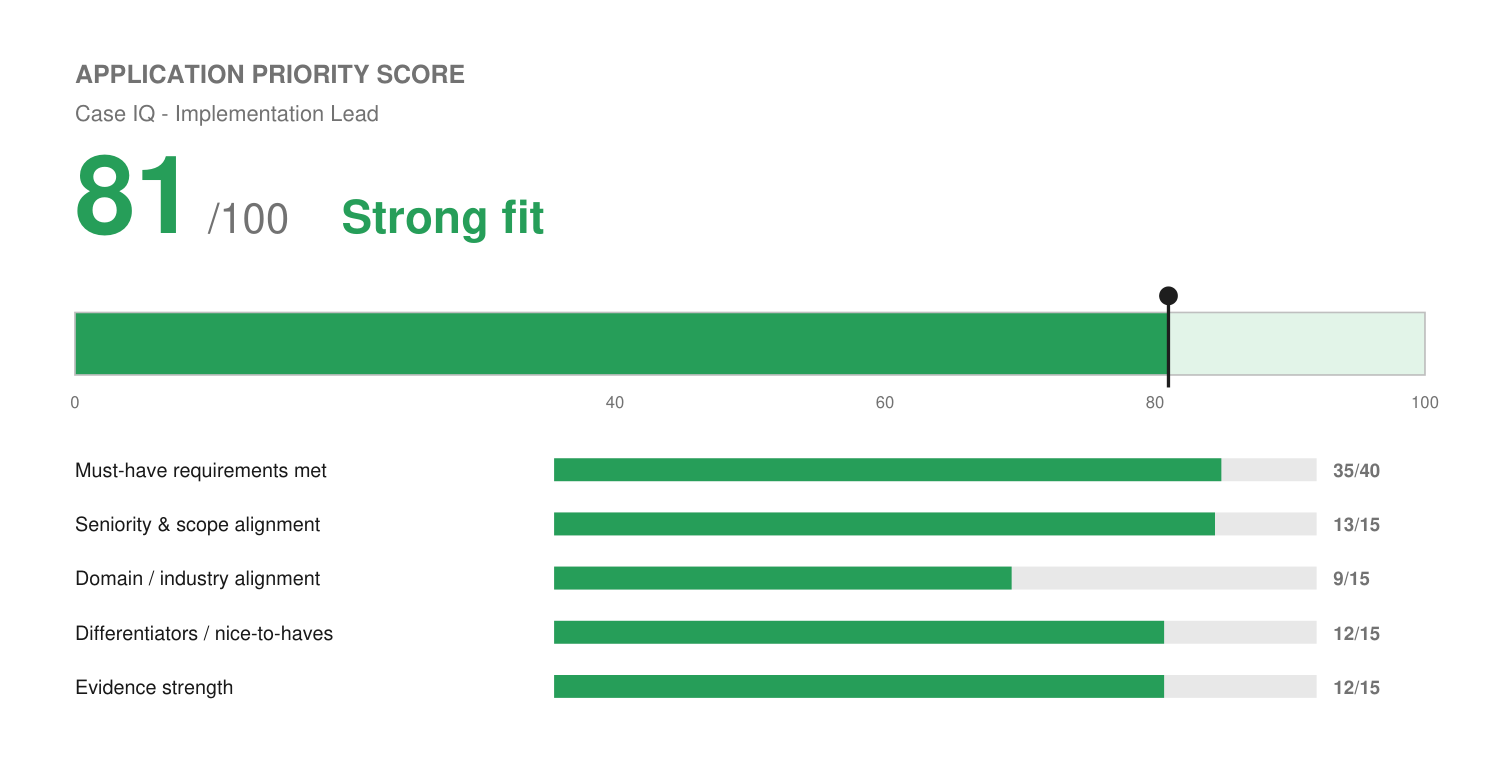
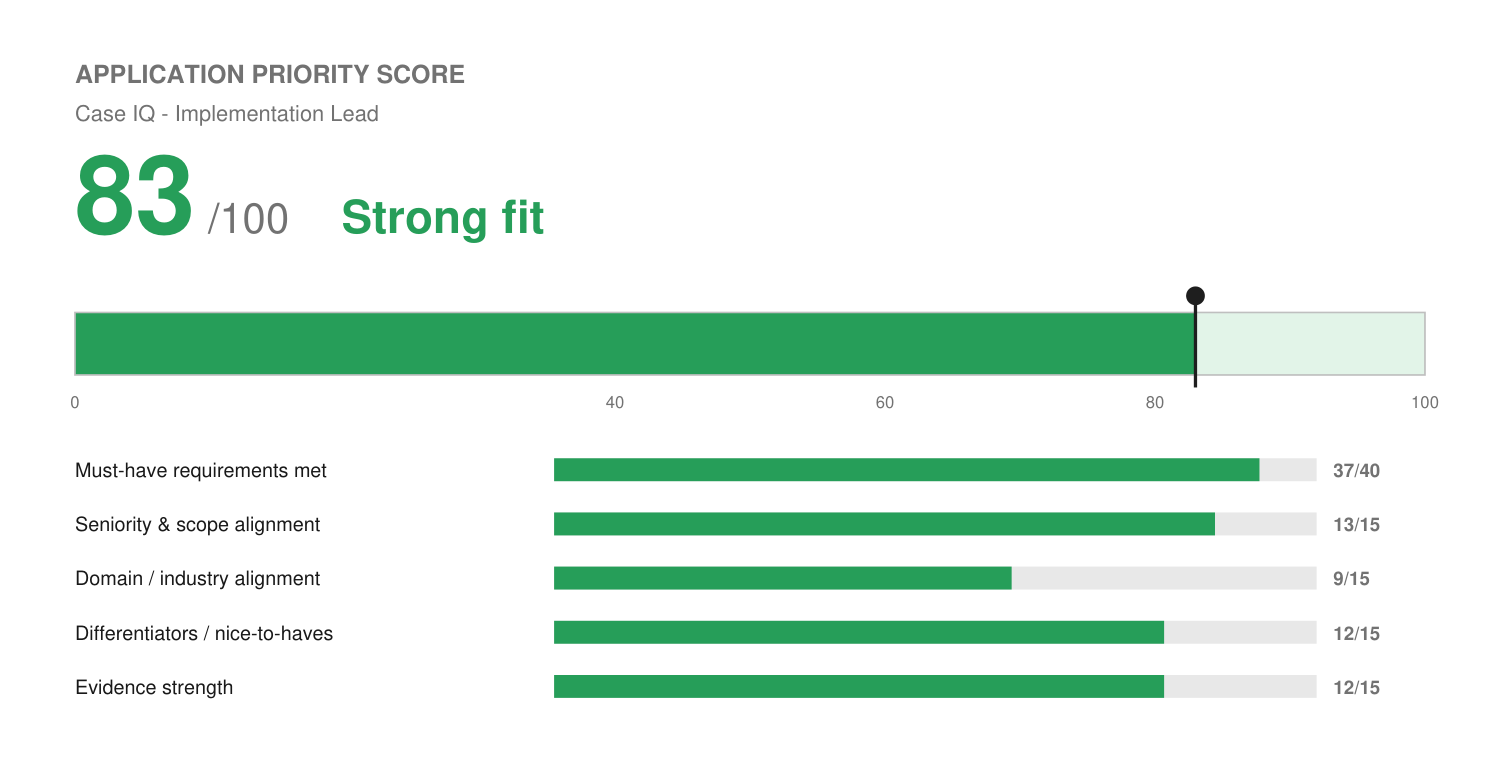
Case IQ Implementation Lead: rescored 83 after webhooks + batch imports confirmed; profile updated
Claude-Session: https://claude.ai/code/session_01Tym7Ffe6DkggR3nyAN5h24

Changed region(s): [[0.7667, 0.3735, 0.828, 0.4981], [0.092, 0.1868, 0.1533, 0.3113], [0.7973, 0.5914, 0.8587, 0.6226]]

diff --git a/applications/case-iq-implementation-lead/match-report.md b/applications/case-iq-implementation-lead/match-report.md
@@ -21,20 +21,20 @@ No blocker.
 ## Application Priority Score
 
 ```
-🟢 Application Priority Score: 81 / 100 — Strong fit
-[████████████████░░░░]  81%
+🟢 Application Priority Score: 83 / 100 — Strong fit
+[█████████████████░░░]  83%
 ```
 
 > Internal decision aid, not a prediction of any employer's system output. See `fit.png`.
 
 | Dimension | Score | Why |
 | :--- | :--- | :--- |
-| Must-have requirements met | 35 / 40 | 8 core asks: 6 strong (2-3 yrs implementation/onboarding, organization + stakeholder management, requirements into plans and docs, timelines and risks, communication, independent + team), 2 adjacent (APIs/webhooks/batch integration models, data migration). |
+| Must-have requirements met | 37 / 40 | (Was 35 before Sep 28 confirmations.) 8 core asks: 7 strong (2-3 yrs implementation/onboarding, organization + stakeholder management, requirements into plans and docs, timelines and risks, communication, independent + team), 1 adjacent (data migration: batch imports confirmed, no record volume). |
 | Seniority & scope alignment | 13 / 15 | Asks 2-3 years; Josh far exceeds it. "Lead" with large customers suits him. Mild overqualification. |
 | Domain / industry alignment | 9 / 15 | B2B SaaS and professional-services software (Accelo) listed as assets. No GRC, legal, or investigations background; Standing Akimbo compliance systems and new-hire compliance are real but small. |
 | Differentiators / nice-to-haves | 12 / 15 | Builds integrations himself with Python/JS code steps; product-feedback loop to Product/Eng; team lead history for "continuously refine implementation processes." |
 | Evidence strength | 12 / 15 | 25+/month at 110% implementation target, ~94% retention, team of 20. No migration volume or integration count on file. |
-| **Total** | **81 / 100** | **Strong fit. Apply.** Also matches Josh's preferred role shape (post-sale, inherits the customer). |
+| **Total** | **83 / 100** | **Strong fit. Apply.** Also matches Josh's preferred role shape (post-sale, inherits the customer). |
 
 ## Requirement coverage
 
@@ -43,8 +43,8 @@ No blocker.
 | Full lifecycle, contract to go-live | Strong | Wix, Solenzo, Accelo implementation plans |
 | Multiple concurrent implementations | Strong | 25+/month at Wix; 15-20 partners at Birdeye |
 | Requirements into configuration/integration/migration | Strong | Solenzo, Accelo |
-| APIs, webhooks, batch data transfers | Adjacent | Accelo API integrations; Zapier/Make/n8n with code steps. "Webhooks" and "batch" not explicitly on file |
-| Data migration | Candidate confirmation | Numbers Worth Capturing already flags this as unevidenced |
+| APIs, webhooks, batch data transfers | Strong | Accelo API integrations; webhooks in Zapier/Make/n8n/GHL; batch/CSV imports into GHL and others (confirmed Sep 28) |
+| Data migration | Adjacent | Batch imports confirmed; Josh doesn't know the largest record count, so no volume claimed |
 | User training and enablement | Strong | Wix, Birdeye, Solenzo |
 | Product feedback, testing | Strong | Birdeye feedback to Product/Eng |
 | Security, confidentiality, compliance | Adjacent | Standing Akimbo compliance systems, CRM data hygiene |
@@ -62,10 +62,10 @@ No blocker.
 
 ## Candidate confirmation needed
 
-1. **Webhooks:** have you configured webhook triggers in Zapier, Make, n8n, or GoHighLevel? (Very likely; confirm and it goes on the resume by name.)
-2. **Data migration:** largest contact/record import or migration you've run (count, source, tool used to clean it)? This is the most valuable number to capture; it recurs across implementation postings.
-3. **Batch/CSV imports:** bulk imports into Salesforce, HubSpot, or GoHighLevel?
-4. Salary number ($82K suggested).
+Resolved Sep 28: webhooks yes, batch imports into GHL and other platforms yes (both added to profile and resume); largest migration volume unknown (recorded in Numbers Worth Capturing).
+
+1. Salary number ($82K suggested).
+2. For the interview: have a concrete batch-import story ready (what system, what cleanup, what broke).
 
 ## Cover letter
 

diff --git a/profile/master-profile.md b/profile/master-profile.md
@@ -353,6 +353,12 @@ operator talking, not like a candidate performing.
 > separate confirmation. JavaScript is now confirmed (see the Zapier/Make/n8n code-step
 > note below) — do not use the old "not confirmed" framing for JS going forward.
 >
+> **Webhooks and batch imports (confirmed by Josh, Sep 2026):** Josh has configured
+> webhook triggers in Zapier, Make, n8n, and GoHighLevel, and has run batch/CSV data
+> imports into GoHighLevel and other platforms. Directly answers implementation JDs asking
+> for "APIs, webhooks, batch data transfers." No record count for the largest import is
+> known (see Numbers Worth Capturing), so describe it qualitatively.
+>
 > **Zapier/Make/n8n custom code steps — Python and JavaScript (confirmed by Josh, Sep
 > 2026):** beyond point-and-click workflow config, Josh has written Python and/or
 > JavaScript inside custom code steps in these automation tools as part of real production
@@ -573,7 +579,7 @@ operator talking, not like a candidate performing.
 
 | Category | Competencies |
 | :--- | :--- |
-| CRM & Marketing Automation | GoHighLevel (primary) CRM & Automation Architecture, HubSpot, Salesforce, Workflow Design, Segmentation, Data Hygiene, Lifecycle Stages, Lead Routing, Zapier, Make, n8n |
+| CRM & Marketing Automation | GoHighLevel (primary) CRM & Automation Architecture, HubSpot, Salesforce, Workflow Design, Segmentation, Data Hygiene, Lifecycle Stages, Lead Routing, Zapier, Make, n8n, Webhooks, Batch/CSV Data Imports |
 | Sales Engagement & Enrichment | Salesloft, ZoomInfo, Gong (confirmed hands-on, Sep 2026; role attribution to be captured), Pipeline Stage Tracking & Forecast Hygiene |
 | Growth & Demand Generation | Full-funnel acquisition, Lifecycle Marketing, CRO, A/B Testing, Paid Media, Paid Social (Meta Ads certified), SEO, Local SEO & Google Business Profile Management, Data-Aggregator/Listings Solutions, Email Marketing (Marketo, Mailchimp), Landing Pages |
 | Analytics & Reporting | GA4, Google Search Console, Google Tag Manager, Ahrefs, Semrush, Campaign Attribution, ROI Dashboards, QBRs, KPI Tracking |
@@ -646,7 +652,10 @@ with its scope and delete the line here.
 **Role-specific:**
 - **Data volume.** Records or contacts in the largest migration or import he has run, and
   what tool he cleaned it in. Directly requested by implementation JDs (Excel is named
-  explicitly in several) and currently unevidenced.
+  explicitly in several). Batch imports themselves are now confirmed (see the webhooks /
+  batch imports note under Solenzo); Josh doesn't have a record count offhand (Sep 2026),
+  so don't state a volume. Worth a later `/excavate-profile` pass (e.g., check a GHL
+  import history).
 - **Training delivery.** Number of sessions run and people trained, at Wix and Birdeye.
 - **Solenzo retainer range.** Concurrent client count is now captured (up to 3, see Verified
   Metrics); typical retainer/contract value per client is still unrecorded.
